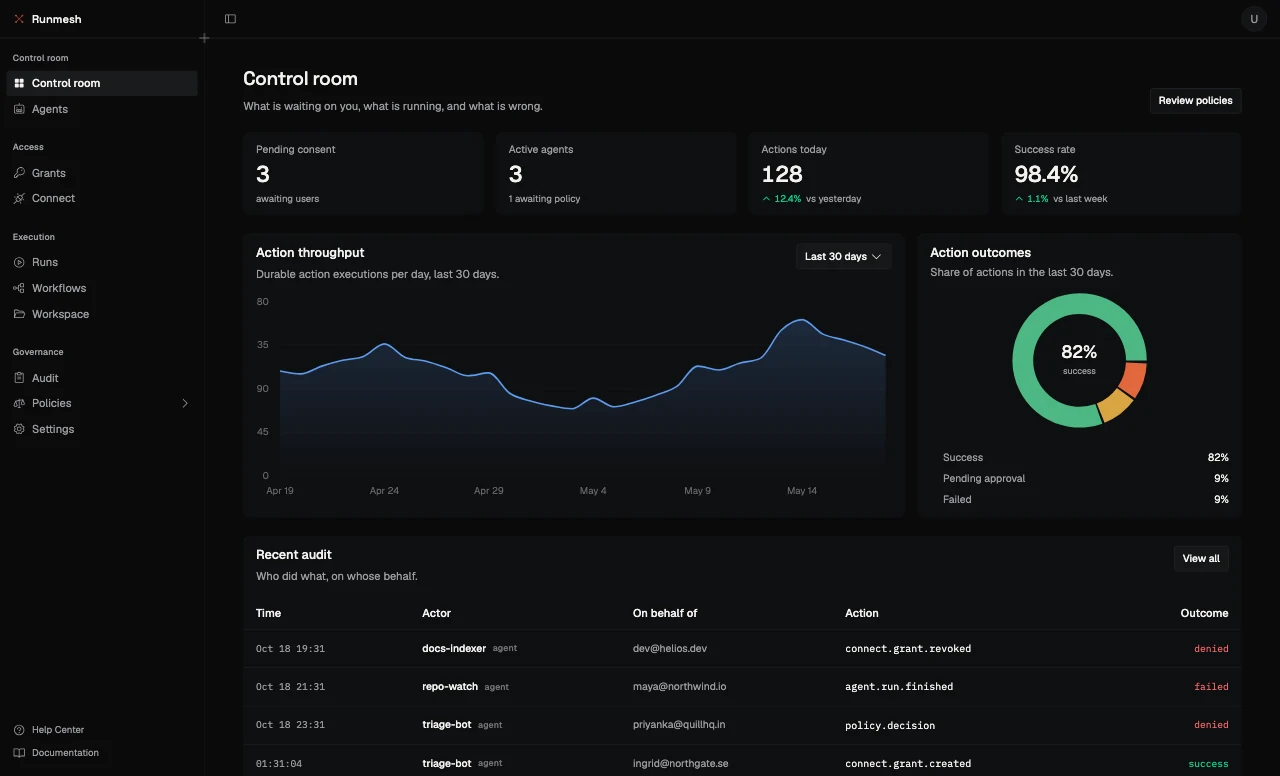
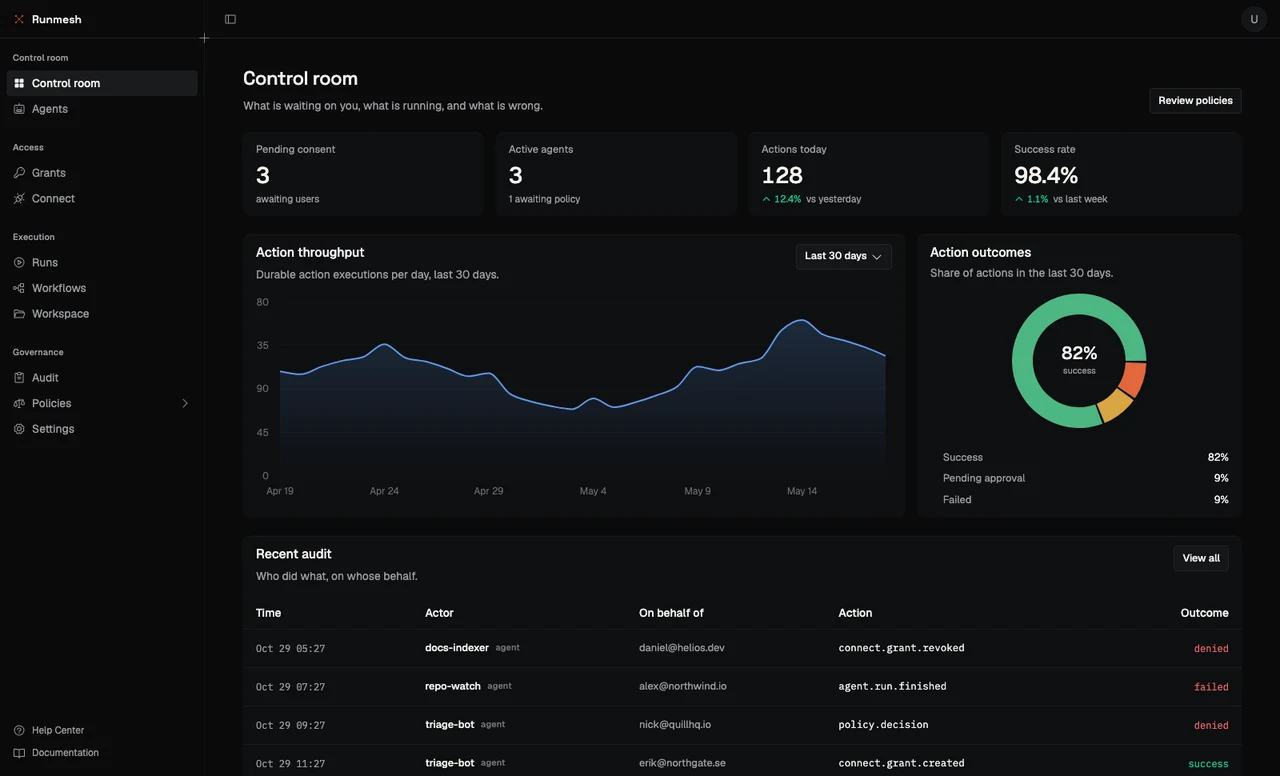
Restore landing de-OSS pass and demo names on merged tree

diff --git a/frontend/src/modules/landing/footer.tsx b/frontend/src/modules/landing/footer.tsx
@@ -18,7 +18,7 @@ const columns = [
 		items: [
 			{ label: "Use cases", href: "/#use-cases" },
 			{ label: "Integrations", href: "/#integrations" },
-			{ label: "Open source", href: "/#open-source" },
+			{ label: "Self-hosted", href: "/#self-host" },
 			{ label: "FAQ", href: "/#faq" },
 		],
 	},
@@ -26,9 +26,8 @@ const columns = [
 		title: "Company",
 		items: [
 			{ label: "Workspace", href: "/workspace" },
-			{ label: "GitHub", href: "https://github.com/Daviduche03/Runmesh" },
-			{ label: "Changelog", href: "https://github.com/Daviduche03/Runmesh/commits/main" },
-			{ label: "Contributing", href: "https://github.com/Daviduche03/Runmesh/blob/main/CONTRIBUTING.md" },
+			{ label: "Get started", href: "/signup" },
+			{ label: "Log in", href: "/login" },
 		],
 	},
 ]
@@ -47,7 +46,7 @@ export function Footer() {
 							The control plane for AI agents: identity, access, approvals, and audit in one layer.
 						</p>
 						<p className="mt-6 font-mono text-[10.5px] uppercase tracking-[0.14em] text-[var(--rm-ink-muted)]">
-							MIT licensed
+							Self-hosted
 						</p>
 					</div>
 
@@ -57,38 +56,13 @@ export function Footer() {
 								{title}
 							</h3>
 							{items.map((item) => {
-								const external = item.href.startsWith("http")
-								const content = (
-									<>
-										{item.label}
-										{external ? (
-											<svg
-												viewBox="0 0 12 12"
-												className="ml-1 inline-block size-2.5 -translate-y-px fill-none stroke-current"
-												strokeWidth="1.3"
-												aria-hidden="true"
-											>
-												<path d="M4.5 2.5h5v5" />
-												<path d="M9.5 2.5 3 9" />
-											</svg>
-										) : null}
-									</>
-								)
-								const className =
-									"text-[14px] text-[var(--rm-ink-muted)] no-underline transition-[color] duration-150 ease-[var(--ease-out)] hover:text-[var(--rm-ink-fg)]"
-								return external ? (
-									<a
+								return (
+									<Link
 										key={item.label}
-										href={item.href}
-										className={className}
-										target="_blank"
-										rel="noreferrer"
+										to={item.href}
+										className="text-[14px] text-[var(--rm-ink-muted)] no-underline transition-[color] duration-150 ease-[var(--ease-out)] hover:text-[var(--rm-ink-fg)]"
 									>
-										{content}
-									</a>
-								) : (
-									<Link key={item.label} to={item.href} className={className}>
-										{content}
+										{item.label}
 									</Link>
 								)
 							})}

diff --git a/frontend/src/modules/landing/hero.tsx b/frontend/src/modules/landing/hero.tsx
@@ -26,14 +26,12 @@ export function Hero() {
 								Get started free
 								<ArrowRight className="size-3.5" weight="bold" />
 							</Link>
-							<a
-								href="https://github.com/Daviduche03/Runmesh"
-								target="_blank"
-								rel="noreferrer"
+							<Link
+								to="/#how-it-works"
 								className="inline-flex h-10 items-center rounded-[8px] border border-[var(--rm-line-strong)] bg-white px-4 text-[14px] font-medium text-[var(--rm-fg)] no-underline transition-[border-color,transform] duration-150 ease-[var(--ease-out)] hover:border-[var(--rm-faint)] active:scale-[0.98]"
 							>
-								Read the source
-							</a>
+								See how it works
+							</Link>
 						</div>
 					</div>
 				</div>

diff --git a/frontend/src/modules/landing/self-host.tsx b/frontend/src/modules/landing/self-host.tsx
@@ -19,7 +19,7 @@ const points = [
 export function SelfHost() {
 	return (
 		<section
-			id="open-source"
+			id="self-host"
 			className="scroll-mt-16 border-t border-[var(--rm-line)] py-20 lg:py-28"
 		>
 			<div className={container}>
@@ -29,7 +29,7 @@ export function SelfHost() {
 							Run it where your agents already run
 						</h2>
 						<p className="mt-5 max-w-[480px] text-pretty text-[16px] leading-7 text-[var(--rm-muted)]">
-							MIT licensed, and deliberately boring to deploy. If you can run a container, you can run
+							Deliberately boring to deploy. If you can run a container, you can run
 							Runmesh.
 						</p>
 

diff --git a/frontend/src/modules/landing/faq.tsx b/frontend/src/modules/landing/faq.tsx
@@ -22,7 +22,7 @@ const faqs = [
 	},
 	{
 		q: "Can I run it myself?",
-		a: "Yes. It is a single process with a single database file, and it runs on any machine you can run a container on. No managed control plane required, and the whole thing is MIT licensed.",
+		a: "Yes. It is a single process with a single database file, and it runs on any machine you can run a container on. No managed control plane, and no data leaves your box.",
 	},
 	{
 		q: "What does it not do?",

diff --git a/frontend/src/modules/landing/self-host-art.tsx b/frontend/src/modules/landing/self-host-art.tsx
@@ -79,7 +79,7 @@ export function SelfHostScene() {
 
 			<span className="absolute right-6 top-6 inline-flex items-center gap-1.5 rounded-full bg-white/90 px-2.5 py-1 text-[10.5px] font-medium text-[var(--rm-fg-2)] shadow-[0_10px_20px_-14px_rgba(16,60,45,0.6)] ring-1 ring-black/[0.04]">
 				<span aria-hidden="true" className="size-1.5 rounded-full bg-[var(--rm-accent)]" />
-				MIT licensed
+				Self-hosted
 			</span>
 
 			<Grain opacity={0.1} />

diff --git a/legacy/runmesh-main/scripts/seed_demo.py b/legacy/runmesh-main/scripts/seed_demo.py
@@ -53,7 +53,7 @@ def main() -> None:
         c.execute(f"DELETE FROM {t}")
 
     c.execute("INSERT OR REPLACE INTO users (id, name, email, password, created_at, updated_at) VALUES (?,?,?,?,?,?)",
-              (USER_ID, "Ada Okonkwo", "ada@acme.dev", "!", ago(days=200), ago(days=1)))
+              (USER_ID, "Sam Whitfield", "sam@acme.dev", "!", ago(days=200), ago(days=1)))
 
     c.execute(
         "INSERT OR REPLACE INTO workspaces (id, name, owner_user_id, status, created_at, updated_at, type, slug, plan, seats)"
@@ -72,14 +72,14 @@ def main() -> None:
     )
 
     people = [
-        ("Maya Lindqvist", "maya@northwind.io", "Northwind", "github"),
-        ("Dev Patel", "dev@helios.dev", "Helios", "google"),
-        ("Sara Okonkwo", "sara@meridian.co", "Meridian", "slack"),
-        ("Jonas Weber", "jonas@vela.app", "Vela", "notion"),
-        ("Ruth Adeyemi", "ruth@brightlabs.ai", "Brightlabs", "github"),
-        ("Tomás Ferreira", "tomas@crestline.io", "Crestline", "google"),
-        ("Ingrid Halvorsen", "ingrid@northgate.se", "Northgate", "github"),
-        ("Priyanka Rao", "priyanka@quillhq.in", "Quill", "notion"),
+        ("Alex Hartman", "alex@northwind.io", "Northwind", "github"),
+        ("Daniel Reese", "daniel@helios.dev", "Helios", "google"),
+        ("Kate Sullivan", "kate@meridian.co", "Meridian", "slack"),
+        ("Mark Jensen", "mark@vela.app", "Vela", "notion"),
+        ("Laura Bennett", "laura@brightlabs.ai", "Brightlabs", "github"),
+        ("Chris Palmer", "chris@crestline.io", "Crestline", "google"),
+        ("Erik Sandberg", "erik@northgate.se", "Northgate", "github"),
+        ("Nick Foster", "nick@quillhq.io", "Quill", "notion"),
     ]
     connect_users = []
     for name, email, account, provider in people:
@@ -279,7 +279,7 @@ def main() -> None:
             " grant_id, reason, created_at, enforcement, run_id) VALUES (?,?,?,?,?,?,?,?,?,?,?,?,?,?,?,?,?,?,?,?)",
             (did, WORKSPACE_ID, rule_ids[["allow", "allow", "escalate", "consent", "deny"].index(decision)],
              decision, "enforce", 1, 0, decision, "all scopes", "acme/platform",
-             agent_ids["support-copilot"], "support-copilot", connect_users[0][0], "maya@northwind.io",
+             agent_ids["support-copilot"], "support-copilot", connect_users[0][0], "alex@northwind.io",
              source, grant_id, rule_name,
              ago(hours=2, minutes=i * 7), "cooperative", run_ids[run_idx]),
         )

diff --git a/AGENTS.md b/AGENTS.md
@@ -229,7 +229,7 @@ The landing page shows **real** app screenshots, not mockups. They are captured 
 
 ```bash
 # 1. Seed a local instance with realistic demo data (idempotent; wipes its tables first)
-cd runmesh-main && uv run python scripts/seed_demo.py runmesh.db
+cd legacy/runmesh-main && uv run python scripts/seed_demo.py runmesh.db
 
 # 2. Run the API and the frontend, then log in with a dashboard JWT
 uv run python src/main.py                       # :8787
